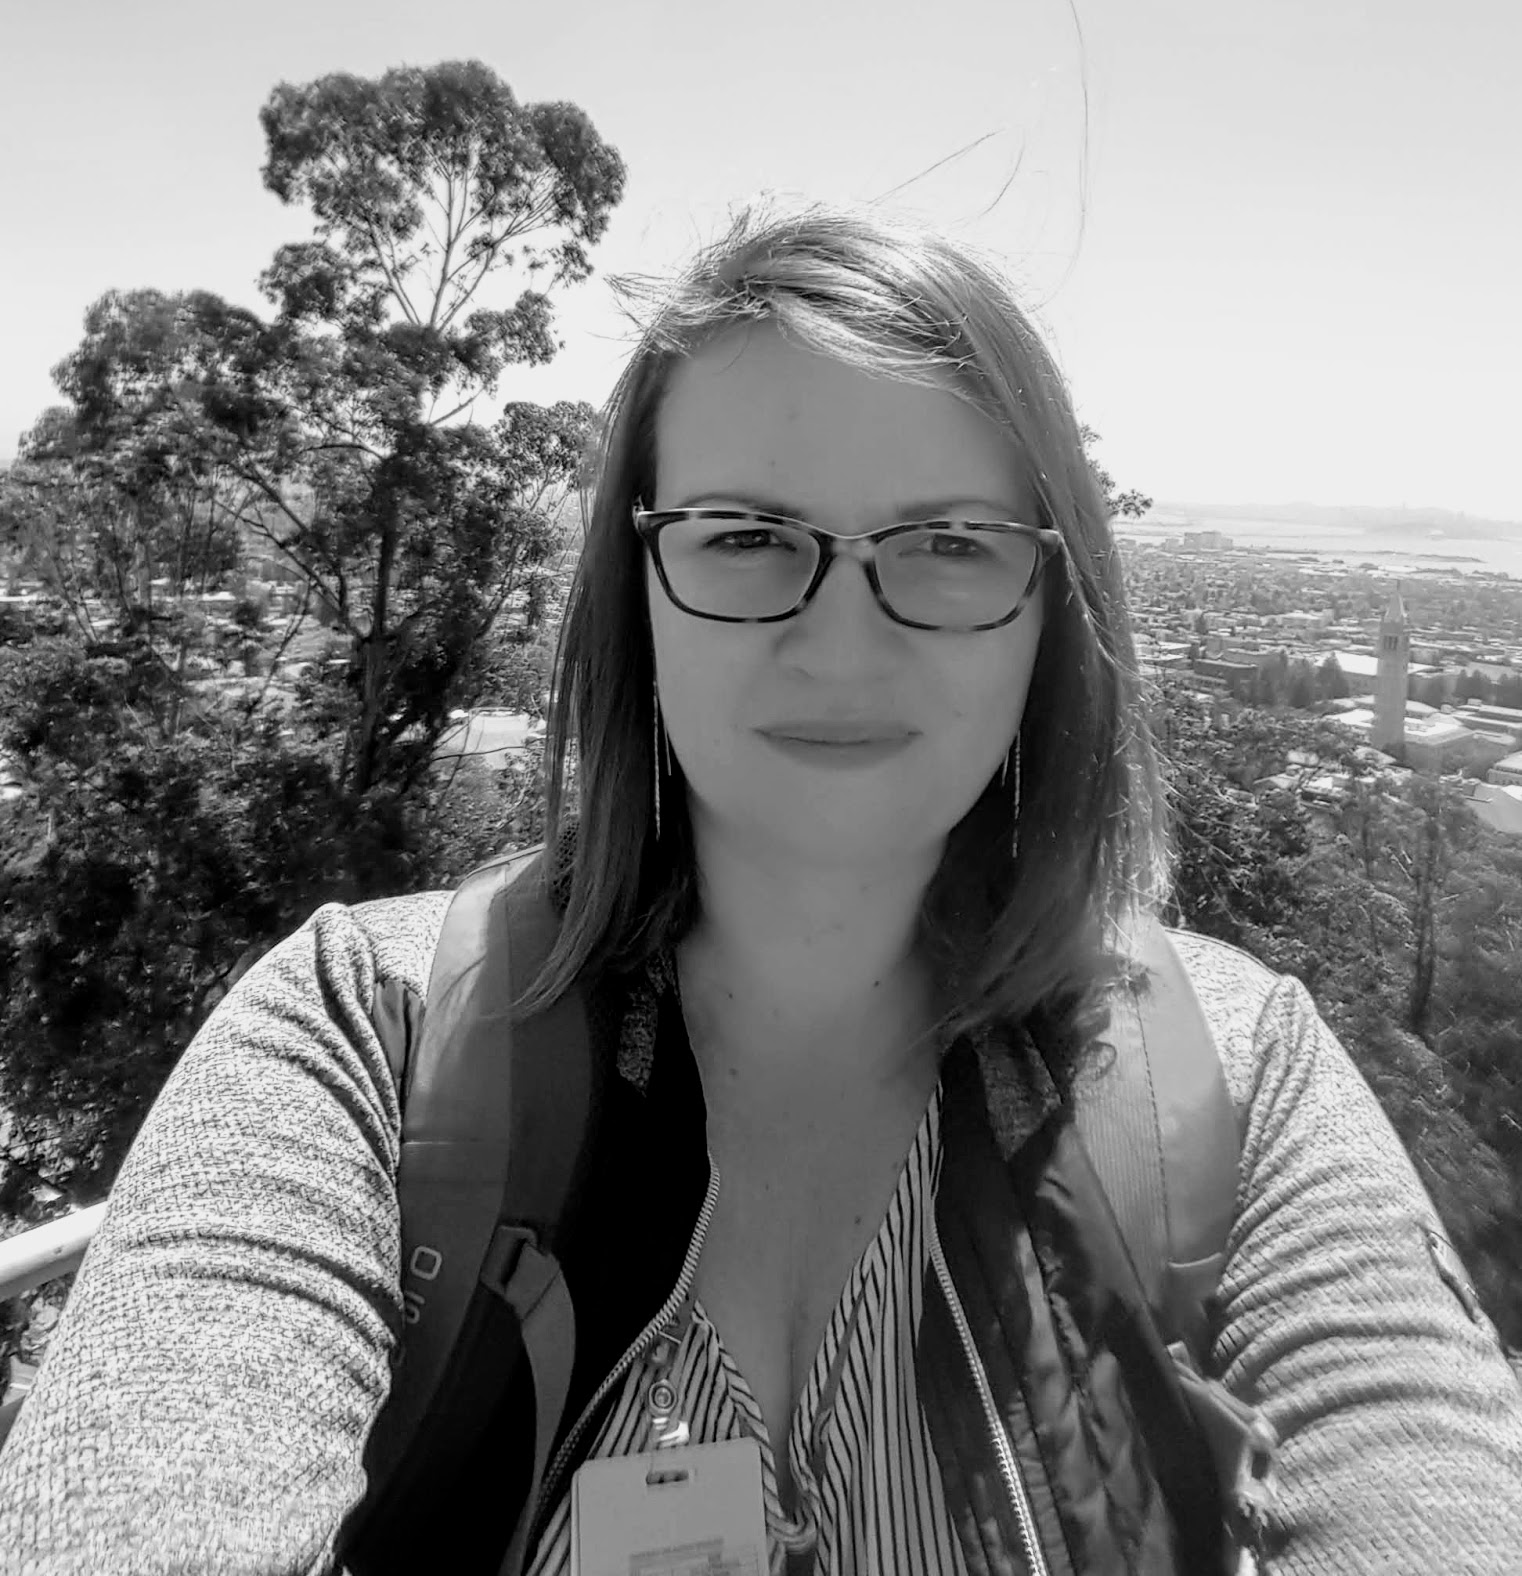
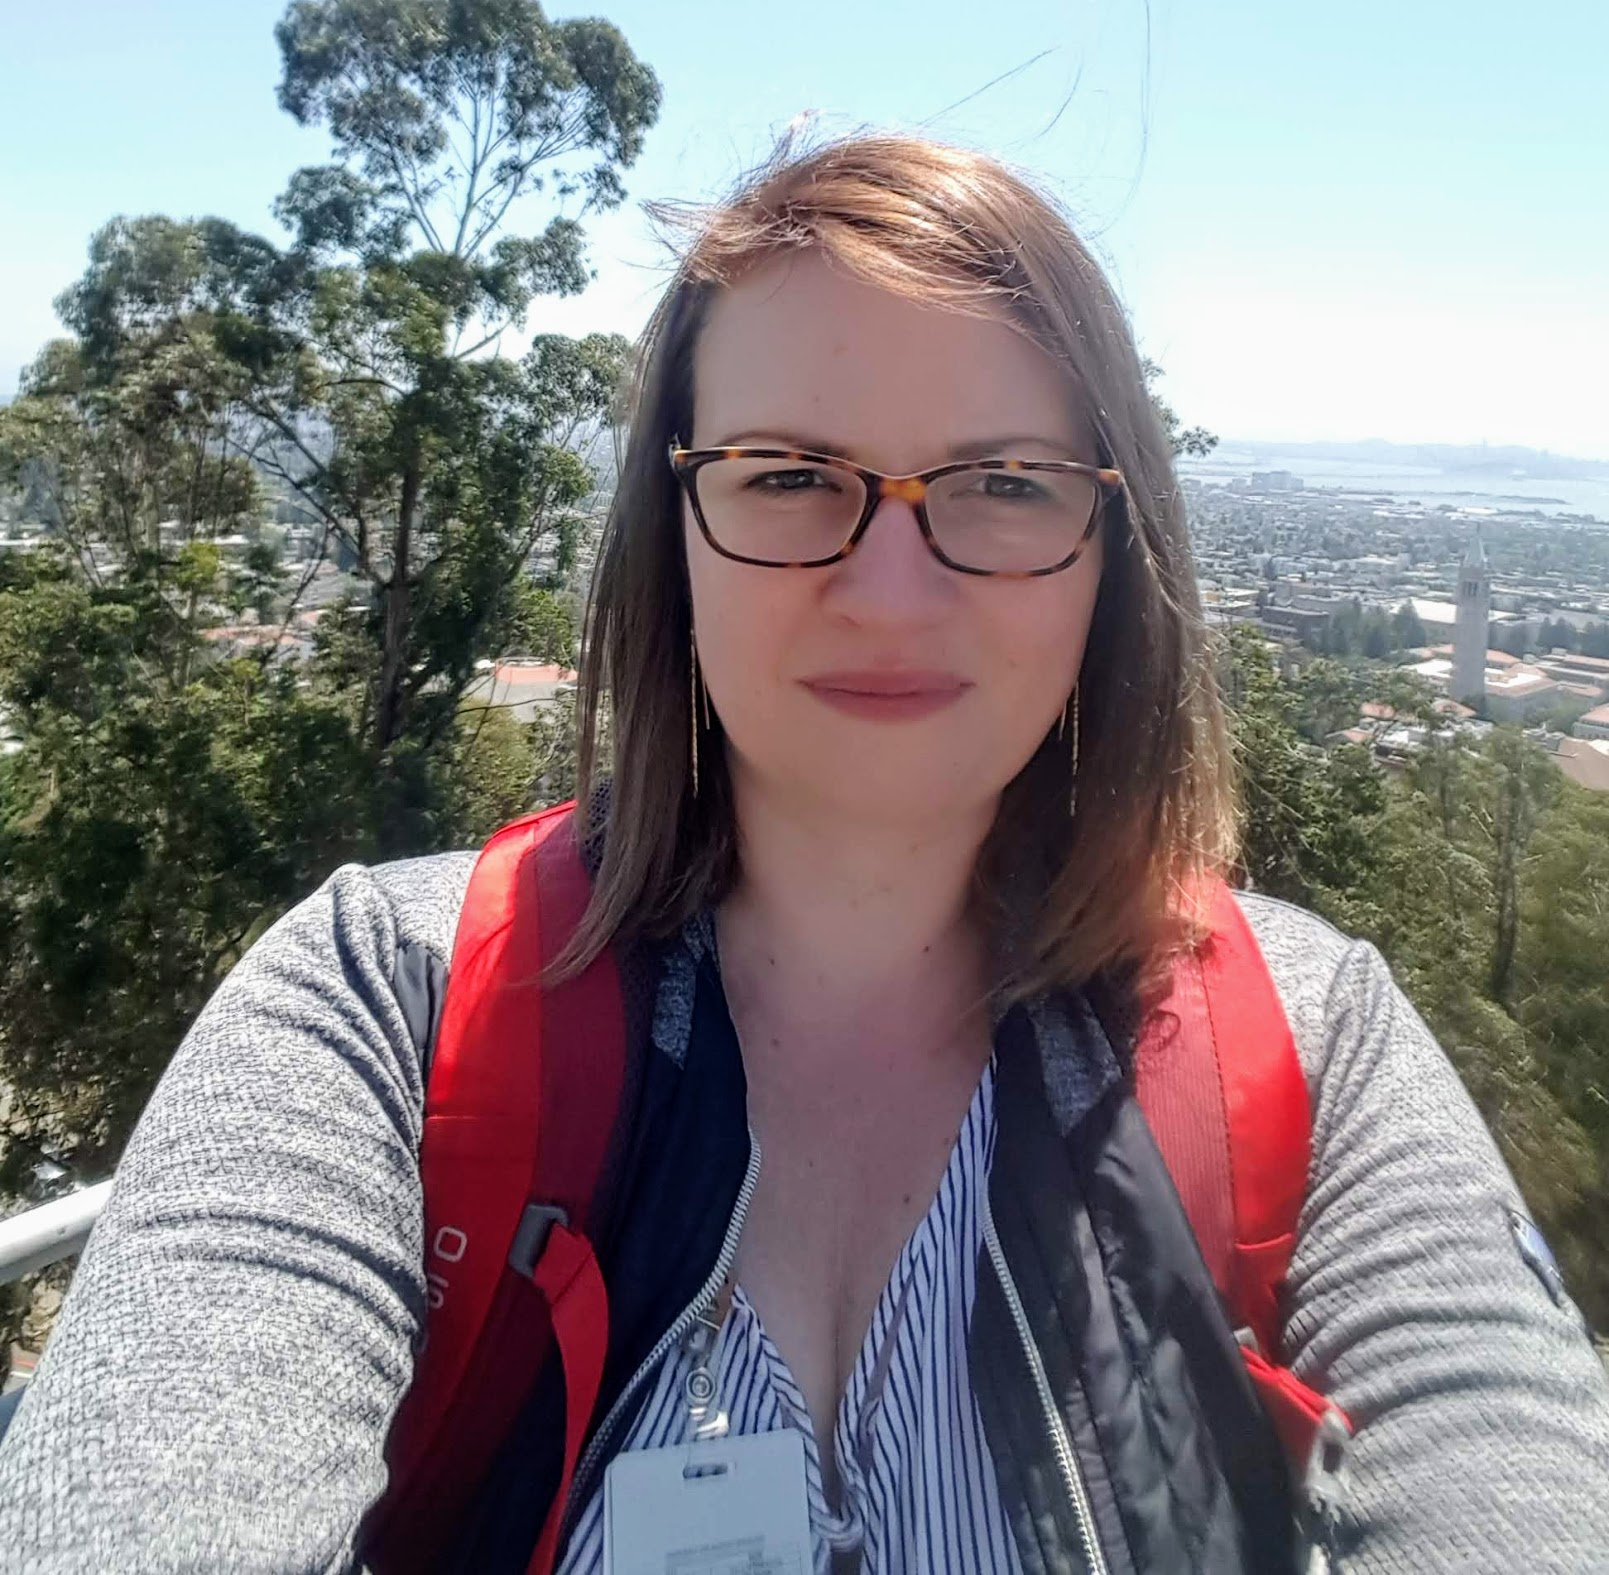
header image

diff --git a/index.html b/index.html
@@ -1,4 +1,6 @@
 ---
-layout: home
+layout: single
+author_profile: true
+header:
+  image: /assets/images/MT.jpg
 ---
-Hello World!!
